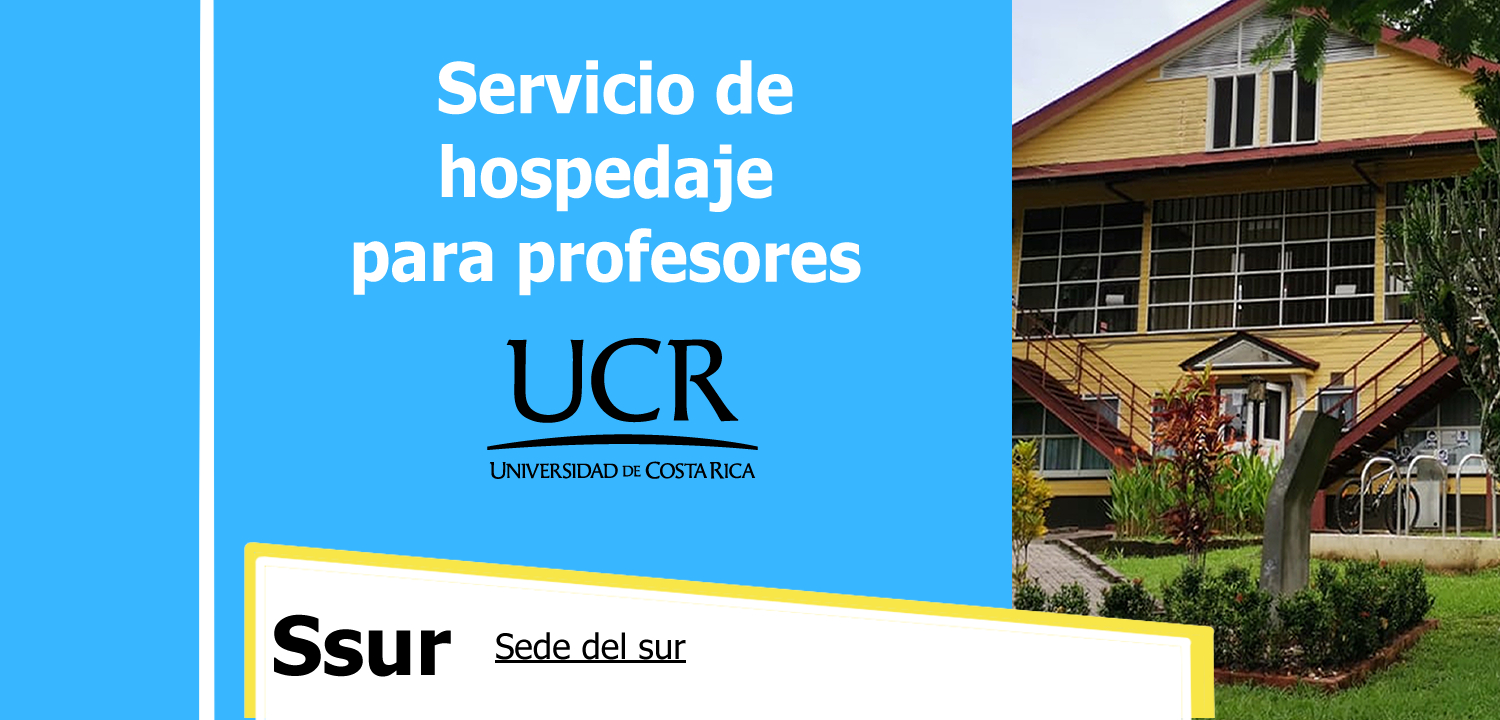
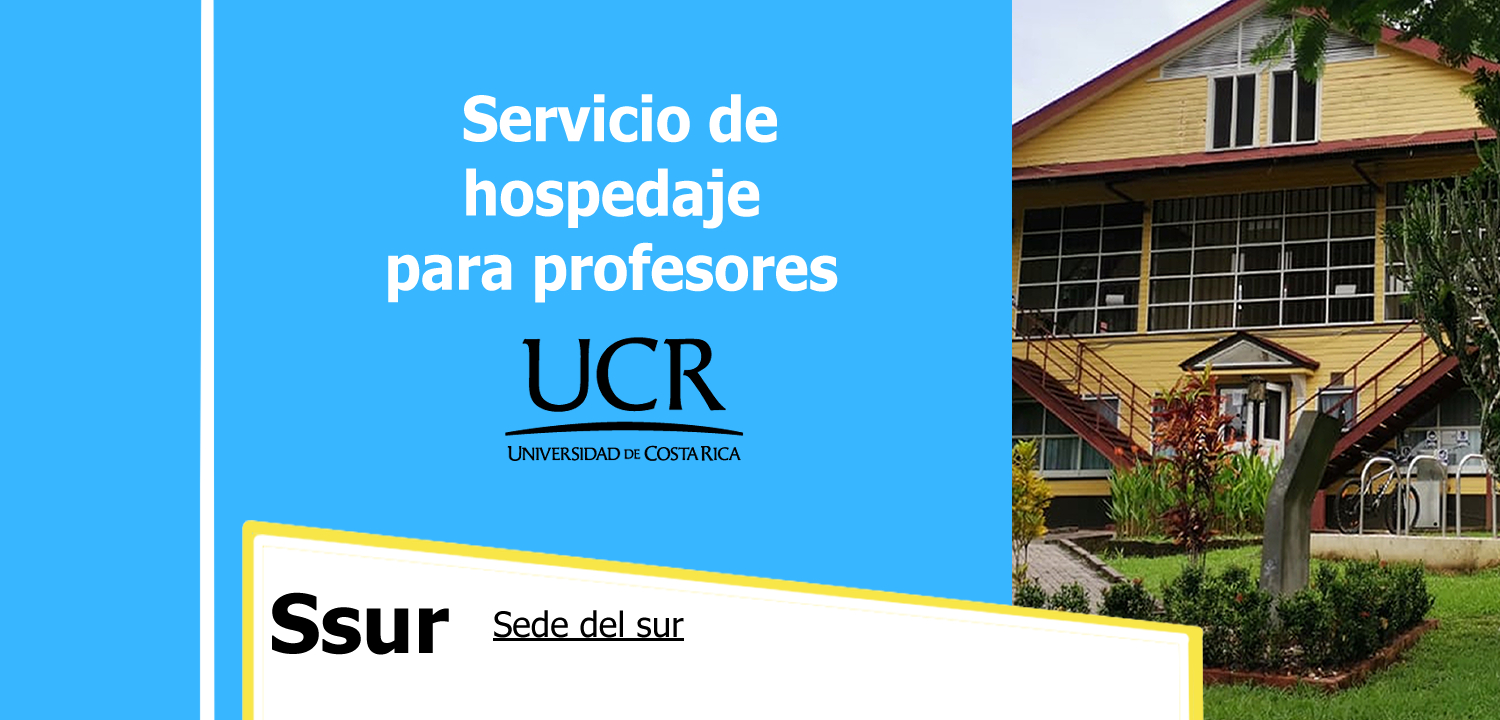
"Se modifico el backgroud para hacerlo responsivo"

Changed region(s): [[0.2147, 0.0917, 0.5827, 0.4278], [0.1533, 0.7028, 0.828, 1.0], [0.3067, 0.4583, 0.5213, 0.6722]]

diff --git a/web/index.html b/web/index.html
@@ -33,7 +33,7 @@ Click nbfs://nbhost/SystemFileSystem/Templates/JSP_Servlet/Html.html to edit thi
             }
         </style>
     </head>
-    <body background="Ssur.jpg">
+    <body>
 
         <h1 class="headier">
             <img src="UCR_LOGO.png" alt="Texto alternativo de la imagen" class="UCR-img"> Universidad de Costa Rica. Servicio de hospedajes para profesores.

diff --git a/web/CSS.css b/web/CSS.css
@@ -47,3 +47,11 @@
   border: 1px solid #000;  
              }
              
+             body{
+                
+                 background-image: url("Ssur.jpg");
+                 background-repeat: no-repeat;
+                 background-size: cover;
+                 background-attachment: fixed;
+                 
+             }
